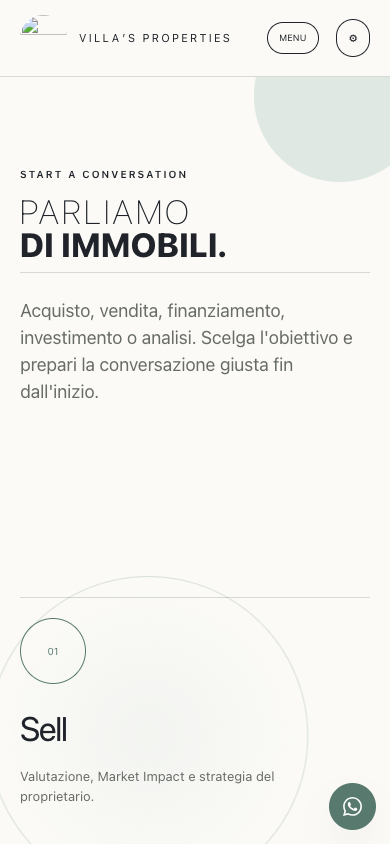
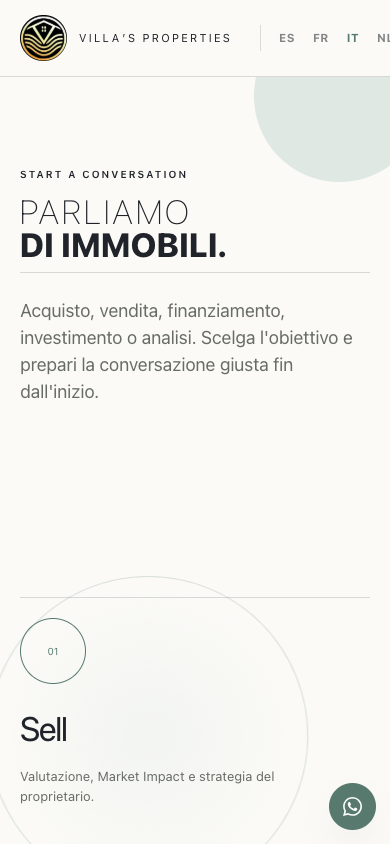
fix: shell.js/app.js pisaban el nav, el claim y el selector de idioma en runtime
shell.js y app.js reescriben el <header>/<footer>/menú móvil con innerHTML fijo
en español/inglés en TODAS las páginas (incluidas las 7 de la isla). Eso
dejaba el menú, la reclamación de marca y el CTA en español/inglés en una
página en neerlandés/francés/italiano, y además destruía el selector de
idioma que la página estática traía en el <nav>, porque shell.js sobrescribe
ese nodo entero.

Fix lang-aware sin tocar el comportamiento por defecto (es o sin lang):
- shell.js: nav, claim bajo el logo, CTA 'Valoración gratis' y textos del
  pie localizados por lang; rutas con prefijo '../' en la isla; el
  .lang-switch se rescata antes del innerHTML y se reinserta.
- app.js: mismo criterio en el menú móvil (drawer de 390px).

Verificado en runtime con Playwright (chrome): nav, claim y CTA salen
traducidos en nl/fr/it, el selector de idioma sigue presente, y las páginas
en español (incluidas las 76 fuera de la isla) se comprobaron byte-idénticas
en nav/claim antes y después del cambio.

tools/i18n/verificar-idiomas.js y check_links.py siguen en 0. Capturas
regeneradas en docs/capturas-idiomas/ con el fix aplicado.

diff --git a/shell.js b/shell.js
@@ -22,12 +22,34 @@
      Buy: son argumento, no puerta de entrada, y en el menú competían con las
      cinco que sí lo son. Valuation tampoco va aquí — tiene su propio CTA en la
      cabecera y se enlaza desde media web. */
+  /* atelier:villas-idiomas — islas NL/FR/IT: shell.js pisaba el <header> y el
+     <footer> entero con innerHTML fijo en español/inglés, así que cualquier
+     selector de idioma o nav traducida que pusiera la página estática
+     desaparecía en cuanto cargaba este script. Se hace lang-aware: por
+     defecto (es o sin lang) el comportamiento es BYTE a BYTE el de antes. */
+  const LANG = (document.documentElement.getAttribute('lang') || 'es').toLowerCase();
+  const I18N_NAV = {
+    es: { properties: 'Properties', sell: 'Sell', buy: 'Buy', finance: 'Finance', news: 'News', advisor: 'Valoración gratis', claim: 'INTELIGENCIA INMOBILIARIA · TENERIFE', explore: 'Explore', intelligenceEye: 'Intelligence', follow: 'Follow', privacy: 'Privacidad', legal: 'Aviso legal', backoffice: 'Private back office', restricted: 'Acceso restringido' },
+    nl: { properties: 'Properties', sell: 'Verkopen', buy: 'Kopen', finance: 'Financiering', news: 'Nieuws', advisor: 'Gratis waardebepaling', claim: 'VASTGOEDINTELLIGENTIE · TENERIFE', explore: 'Verkennen', intelligenceEye: 'Intelligence', follow: 'Volgen', privacy: 'Privacybeleid', legal: 'Juridische kennisgeving', backoffice: 'Private back office', restricted: 'Beperkte toegang' },
+    fr: { properties: 'Properties', sell: 'Vendre', buy: 'Acheter', finance: 'Financement', news: 'Actualités', advisor: 'Estimation gratuite', claim: 'INTELLIGENCE IMMOBILIÈRE · TENERIFE', explore: 'Explorer', intelligenceEye: 'Intelligence', follow: 'Suivre', privacy: 'Confidentialité', legal: 'Mentions légales', backoffice: 'Private back office', restricted: 'Accès restreint' },
+    it: { properties: 'Properties', sell: 'Vendere', buy: 'Comprare', finance: 'Finanziamento', news: 'Notizie', advisor: 'Valutazione gratuita', claim: "INTELLIGENCE IMMOBILIARE · TENERIFE", explore: 'Esplora', intelligenceEye: 'Intelligence', follow: 'Segui', privacy: 'Privacy', legal: 'Note legali', backoffice: 'Private back office', restricted: 'Accesso riservato' },
+  };
+  const T = I18N_NAV[LANG] || I18N_NAV.es;
+  /* Las páginas de la isla viven un nivel más abajo (nl/ fr/ it/): todo
+     enlace/recurso relativo que shell.js inyecta necesita '../'. Fuera de la
+     isla (76 páginas en es, sin lang o lang="es") esto es '' y no cambia nada. */
+  const ISLAND_BASE = LANG !== 'es' ? '../' : '';
+  /* Enlaces que salen de la isla (todo lo que no sea contact.html/guia-comprador
+     en su propio idioma) van al español, marcados: hreflang + title localizado. */
+  const FOREIGN_TITLE = { nl: 'deze pagina is in het Spaans', fr: 'cette page est en espagnol', it: 'questa pagina è in spagnolo' };
+  const outMark = LANG !== 'es' ? ` hreflang="es" title="${FOREIGN_TITLE[LANG]}"` : '';
+
   const NAV = [
-    ['properties.html', 'Properties'],
-    ['sell.html', 'Sell'],
-    ['buy.html', 'Buy'],
-    ['finance.html', 'Finance'],
-    ['insights.html', 'News'],
+    ['properties.html', T.properties],
+    ['sell.html', T.sell],
+    ['buy.html', T.buy],
+    ['finance.html', T.finance],
+    ['insights.html', T.news],
   ];
 
   const page = (location.pathname.split('/').pop() || 'index.html').toLowerCase();
@@ -35,11 +57,11 @@
   const active = page.startsWith('post-') ? 'insights.html' : page;
 
   const brand = `
-    <a class="brand" href="index.html" aria-label="Villa’s Properties">
-      <img class="brand-logo" src="assets/brand/logo-placeholder.webp" alt="" width="44" height="44">
+    <a class="brand" href="${ISLAND_BASE}index.html" aria-label="Villa’s Properties"${outMark}>
+      <img class="brand-logo" src="${ISLAND_BASE}assets/brand/logo-placeholder.webp" alt="" width="44" height="44">
       <div class="lockup">
         <div class="wordmark"><span>VILL</span><span class="a">A</span><span>’S&nbsp;PROPERTIES</span></div>
-        <div class="brand-sub">INTELIGENCIA INMOBILIARIA · TENERIFE</div>
+        <div class="brand-sub">${T.claim}</div>
       </div>
     </a>`;
 
@@ -50,14 +72,19 @@
        no. Y la valoración es el mayor gancho de captación de vendedores, que
        al salir Valuation del menú se había quedado sin sitio visible.
        Contacto no pierde nada: ya se enlaza desde 15 páginas y desde el pie. */
-    const advisor = 'valuation.html';
+    const advisor = `${ISLAND_BASE}valuation.html`;
+    /* El selector de idioma vivía en el <nav> estático de la página; shell.js
+       va a reemplazar ese <nav>, así que se rescata ANTES de pisarlo y se
+       reinserta después (en vez de hacer que cada página lo regenere). */
+    const savedSwitch = header.querySelector('.lang-switch');
+    const switchHtml = savedSwitch ? savedSwitch.outerHTML : '';
     header.innerHTML = `
       <div class="wrap headerin">
         ${brand}
         <nav class="nav">
-          ${NAV.map(([href, label]) => `<a href="${href}"${href === active ? ' class="is-current" aria-current="page"' : ''}>${label}</a>`).join('')}
-          <a class="advisor" href="${advisor}">Valoración gratis</a>
-        </nav>
+          ${NAV.map(([href, label]) => `<a href="${ISLAND_BASE}${href}"${href === active ? ' class="is-current" aria-current="page"' : ''}${outMark}>${label}</a>`).join('')}
+          <a class="advisor" href="${advisor}"${outMark}>${T.advisor}</a>
+        </nav>${switchHtml}
         <button class="menu-toggle" id="mobileAdmin" type="button">⚙ Config</button>
       </div>`;
   }
@@ -69,18 +96,18 @@
         <div class="footergrid">
           <div class="lockup">
             <div class="wordmark"><span>VILLA’S&nbsp;PROPERTIES</span></div>
-            <div class="brand-sub">INTELIGENCIA INMOBILIARIA · TENERIFE</div>
+            <div class="brand-sub">${T.claim}</div>
           </div>
-          <div><div class="eye">Explore</div><p><a href="properties.html">Properties</a><br><a href="sell.html">Sell</a><br><a href="buy.html">Buy</a><br><a href="finance.html">Finance</a><br><a href="invest.html">Invest</a><br><a href="valuation.html">Valoración gratis</a></p></div>
-          <div><div class="eye">Intelligence</div><p><a href="intelligence.html">ACM &amp; Market Impact</a><br><a href="insights.html">Insights / Blog</a><br><a href="advisory.html">Advisory</a><br><a href="case-studies.html">Case Studies</a></p></div>
-          <div><div class="eye">Follow</div><p><a href="https://villasproperties.es/website/social/instagram" target="_blank" rel="noopener">Instagram</a><br><a href="https://villasproperties.es/website/social/facebook" target="_blank" rel="noopener">Facebook</a><br><a href="https://villasproperties.es/website/social/tiktok" target="_blank" rel="noopener">TikTok</a><br><a href="https://villasproperties.es/website/social/youtube" target="_blank" rel="noopener">YouTube</a></p></div>
+          <div><div class="eye">${T.explore}</div><p><a href="${ISLAND_BASE}properties.html"${outMark}>${T.properties}</a><br><a href="${ISLAND_BASE}sell.html"${outMark}>${T.sell}</a><br><a href="${ISLAND_BASE}buy.html"${outMark}>${T.buy}</a><br><a href="${ISLAND_BASE}finance.html"${outMark}>${T.finance}</a><br><a href="${ISLAND_BASE}invest.html"${outMark}>Invest</a><br><a href="${ISLAND_BASE}valuation.html"${outMark}>${T.advisor}</a></p></div>
+          <div><div class="eye">${T.intelligenceEye}</div><p><a href="${ISLAND_BASE}intelligence.html"${outMark}>ACM &amp; Market Impact</a><br><a href="${ISLAND_BASE}insights.html"${outMark}>Insights / Blog</a><br><a href="${ISLAND_BASE}advisory.html"${outMark}>Advisory</a><br><a href="${ISLAND_BASE}case-studies.html"${outMark}>Case Studies</a></p></div>
+          <div><div class="eye">${T.follow}</div><p><a href="https://villasproperties.es/website/social/instagram" target="_blank" rel="noopener">Instagram</a><br><a href="https://villasproperties.es/website/social/facebook" target="_blank" rel="noopener">Facebook</a><br><a href="https://villasproperties.es/website/social/tiktok" target="_blank" rel="noopener">TikTok</a><br><a href="https://villasproperties.es/website/social/youtube" target="_blank" rel="noopener">YouTube</a></p></div>
         </div>
         <div class="footer-bottom">
-          <span>© <span id="year">2026</span> Villa's Properties hecho con Amor · <a href="privacy.html" style="text-decoration:underline">Privacidad</a> · <a href="aviso-legal.html" style="text-decoration:underline">Aviso legal</a></span>
+          <span>© <span id="year">2026</span> Villa's Properties hecho con Amor · <a href="${ISLAND_BASE}privacy.html" style="text-decoration:underline"${outMark}>${T.privacy}</a> · <a href="${ISLAND_BASE}aviso-legal.html" style="text-decoration:underline"${outMark}>${T.legal}</a></span>
           <span><strong>🕒 Tenerife:</strong> <span id="tenerifeClock">--:--:--</span></span>
             <button class="admin footer-admin" id="openAdmin" type="button">
-              <span class="footer-admin__t">Private back office</span>
-              <span class="footer-admin__s">Acceso restringido</span>
+              <span class="footer-admin__t">${T.backoffice}</span>
+              <span class="footer-admin__s">${T.restricted}</span>
             </button>
         </div>
       </div>`;
@@ -132,17 +159,17 @@
     new MutationObserver(async () => {
       if (loaded || !panel.classList.contains('open')) return;
       loaded = true;
-      await load('vp-safe.js');
-      await load('vp-store.js');
-      await load('properties-data.js');
-      await load('vp-publish.js');
-      await load('bo-blog.js');
-      await load('backoffice.js');
+      await load(`${ISLAND_BASE}vp-safe.js`);
+      await load(`${ISLAND_BASE}vp-store.js`);
+      await load(`${ISLAND_BASE}properties-data.js`);
+      await load(`${ISLAND_BASE}vp-publish.js`);
+      await load(`${ISLAND_BASE}bo-blog.js`);
+      await load(`${ISLAND_BASE}backoffice.js`);
     }).observe(panel, { attributes: true, attributeFilter: ['class'] });
   }
 
   /* El CSS del gate solo estaba enlazado en la home. */
-  if (!document.querySelector('link[href="backoffice-auth.css"]')) {
-    document.head.appendChild(Object.assign(document.createElement('link'), { rel: 'stylesheet', href: 'backoffice-auth.css' }));
+  if (!document.querySelector(`link[href="${ISLAND_BASE}backoffice-auth.css"]`)) {
+    document.head.appendChild(Object.assign(document.createElement('link'), { rel: 'stylesheet', href: `${ISLAND_BASE}backoffice-auth.css` }));
   }
 })();

diff --git a/app.js b/app.js
@@ -114,7 +114,20 @@
   if(headerIn && !$('#menuToggle')){
     const menu=document.createElement('button'); menu.id='menuToggle'; menu.type='button'; menu.className='menu-toggle'; menu.textContent='Menu';
     const config=$('#mobileAdmin'); headerIn.insertBefore(menu,config||null);
-    const drawer=document.createElement('div'); drawer.id='mobileDrawer'; drawer.innerHTML='<nav><a href="properties.html">Properties</a><a href="sell.html">Sell</a><a href="buy.html">Buy</a><a href="finance.html">Finance</a><a href="insights.html">News</a><a href="valuation.html">Valoración gratis</a><a href="contact.html">Talk to an advisor</a></nav>';
+    /* atelier:villas-idiomas: igual que shell.js, el menú móvil pisaba todo
+       con rutas/textos fijos en es. Mismo criterio: por defecto (es) idéntico
+       a antes; en la isla nl/fr/it, rutas con '../' y textos localizados. */
+    const mdLang=(document.documentElement.getAttribute('lang')||'es').toLowerCase();
+    const mdBase=mdLang!=='es'?'../':'';
+    const mdOut=mdLang!=='es'?` hreflang="es"`:'';
+    const MD_T={
+      es:{properties:'Properties',sell:'Sell',buy:'Buy',finance:'Finance',news:'News',advisor:'Valoración gratis',talk:'Talk to an advisor'},
+      nl:{properties:'Properties',sell:'Verkopen',buy:'Kopen',finance:'Financiering',news:'Nieuws',advisor:'Gratis waardebepaling',talk:'Praat met een adviseur'},
+      fr:{properties:'Properties',sell:'Vendre',buy:'Acheter',finance:'Financement',news:'Actualités',advisor:'Estimation gratuite',talk:'Parler à un conseiller'},
+      it:{properties:'Properties',sell:'Vendere',buy:'Comprare',finance:'Finanziamento',news:'Notizie',advisor:'Valutazione gratuita',talk:'Parla con un consulente'},
+    };
+    const mdT=MD_T[mdLang]||MD_T.es;
+    const drawer=document.createElement('div'); drawer.id='mobileDrawer'; drawer.innerHTML=`<nav><a href="${mdBase}properties.html"${mdOut}>${mdT.properties}</a><a href="${mdBase}sell.html"${mdOut}>${mdT.sell}</a><a href="${mdBase}buy.html"${mdOut}>${mdT.buy}</a><a href="${mdBase}finance.html"${mdOut}>${mdT.finance}</a><a href="${mdBase}insights.html"${mdOut}>${mdT.news}</a><a href="${mdBase}valuation.html"${mdOut}>${mdT.advisor}</a><a href="contact.html">${mdT.talk}</a></nav>`;
     drawer.style.cssText='position:fixed;z-index:70;inset:76px 0 auto 0;background:#fbfaf7;color:#20242a;border-bottom:1px solid rgba(32,36,42,.16);padding:20px;transform:translateY(-140%);transition:transform .3s ease';
     const nav=drawer.querySelector('nav'); nav.style.cssText='display:grid;grid-template-columns:1fr 1fr;gap:0';
     [...nav.children].forEach(a=>a.style.cssText='padding:15px 8px;border-bottom:1px solid rgba(32,36,42,.12);font-size:11px;font-weight:600;letter-spacing:.1em;text-transform:uppercase');
